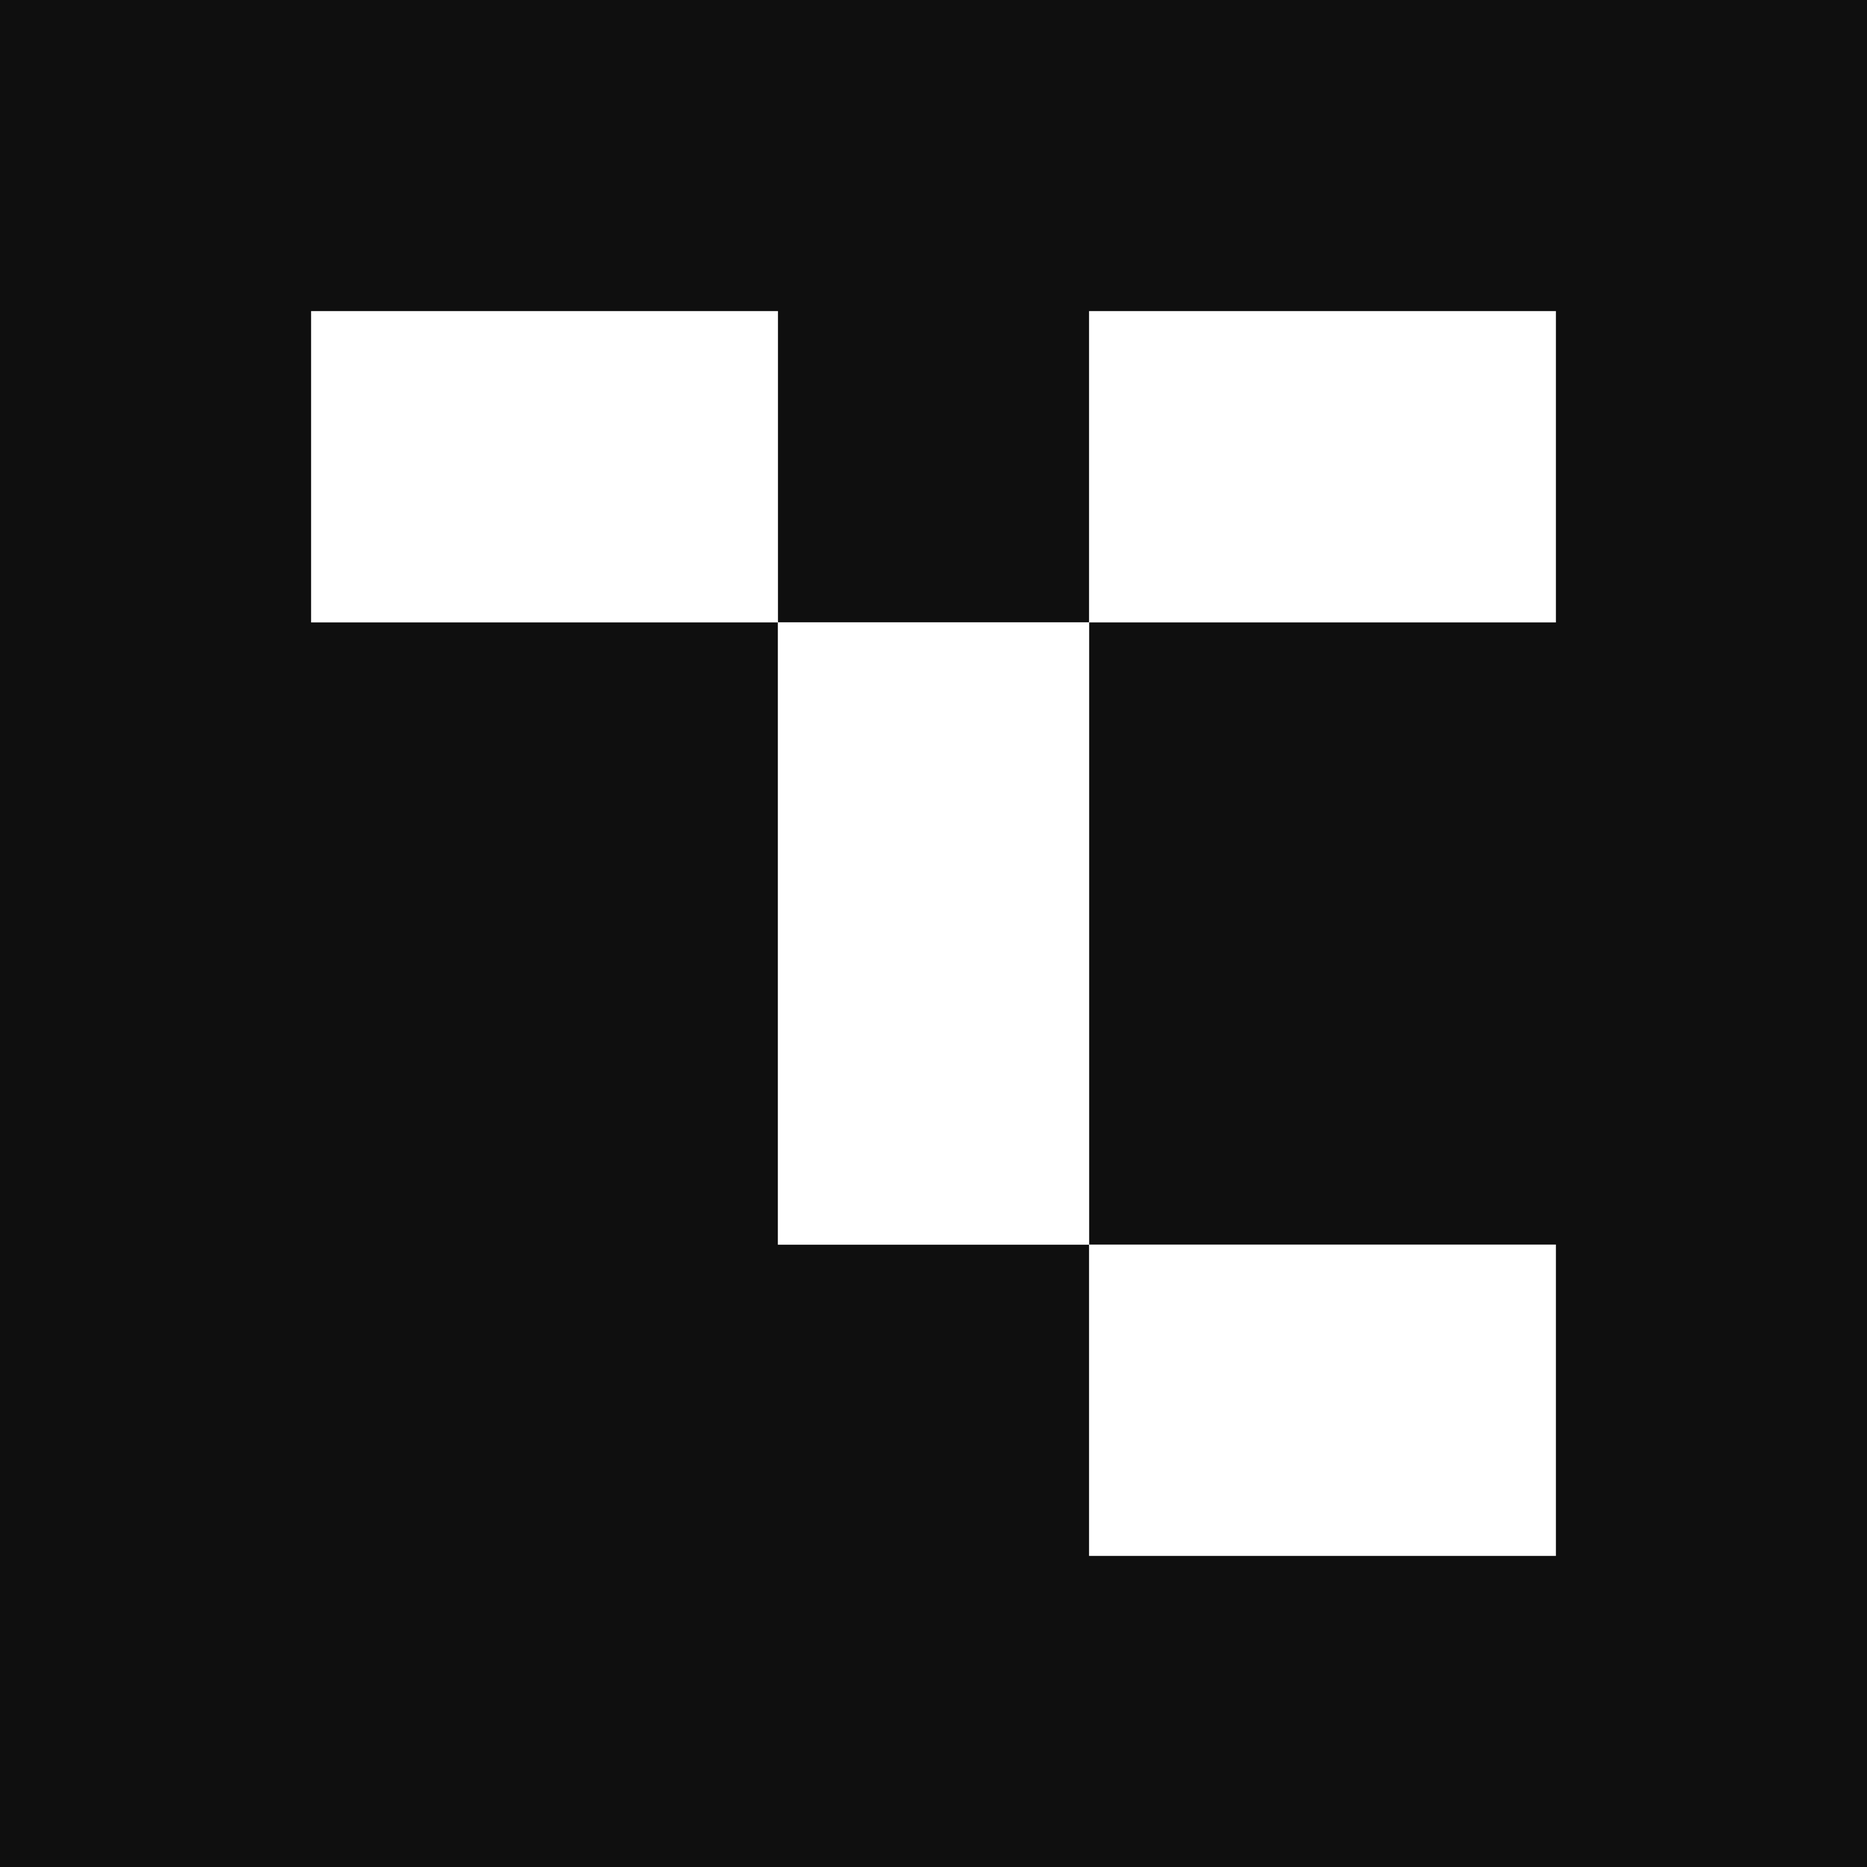
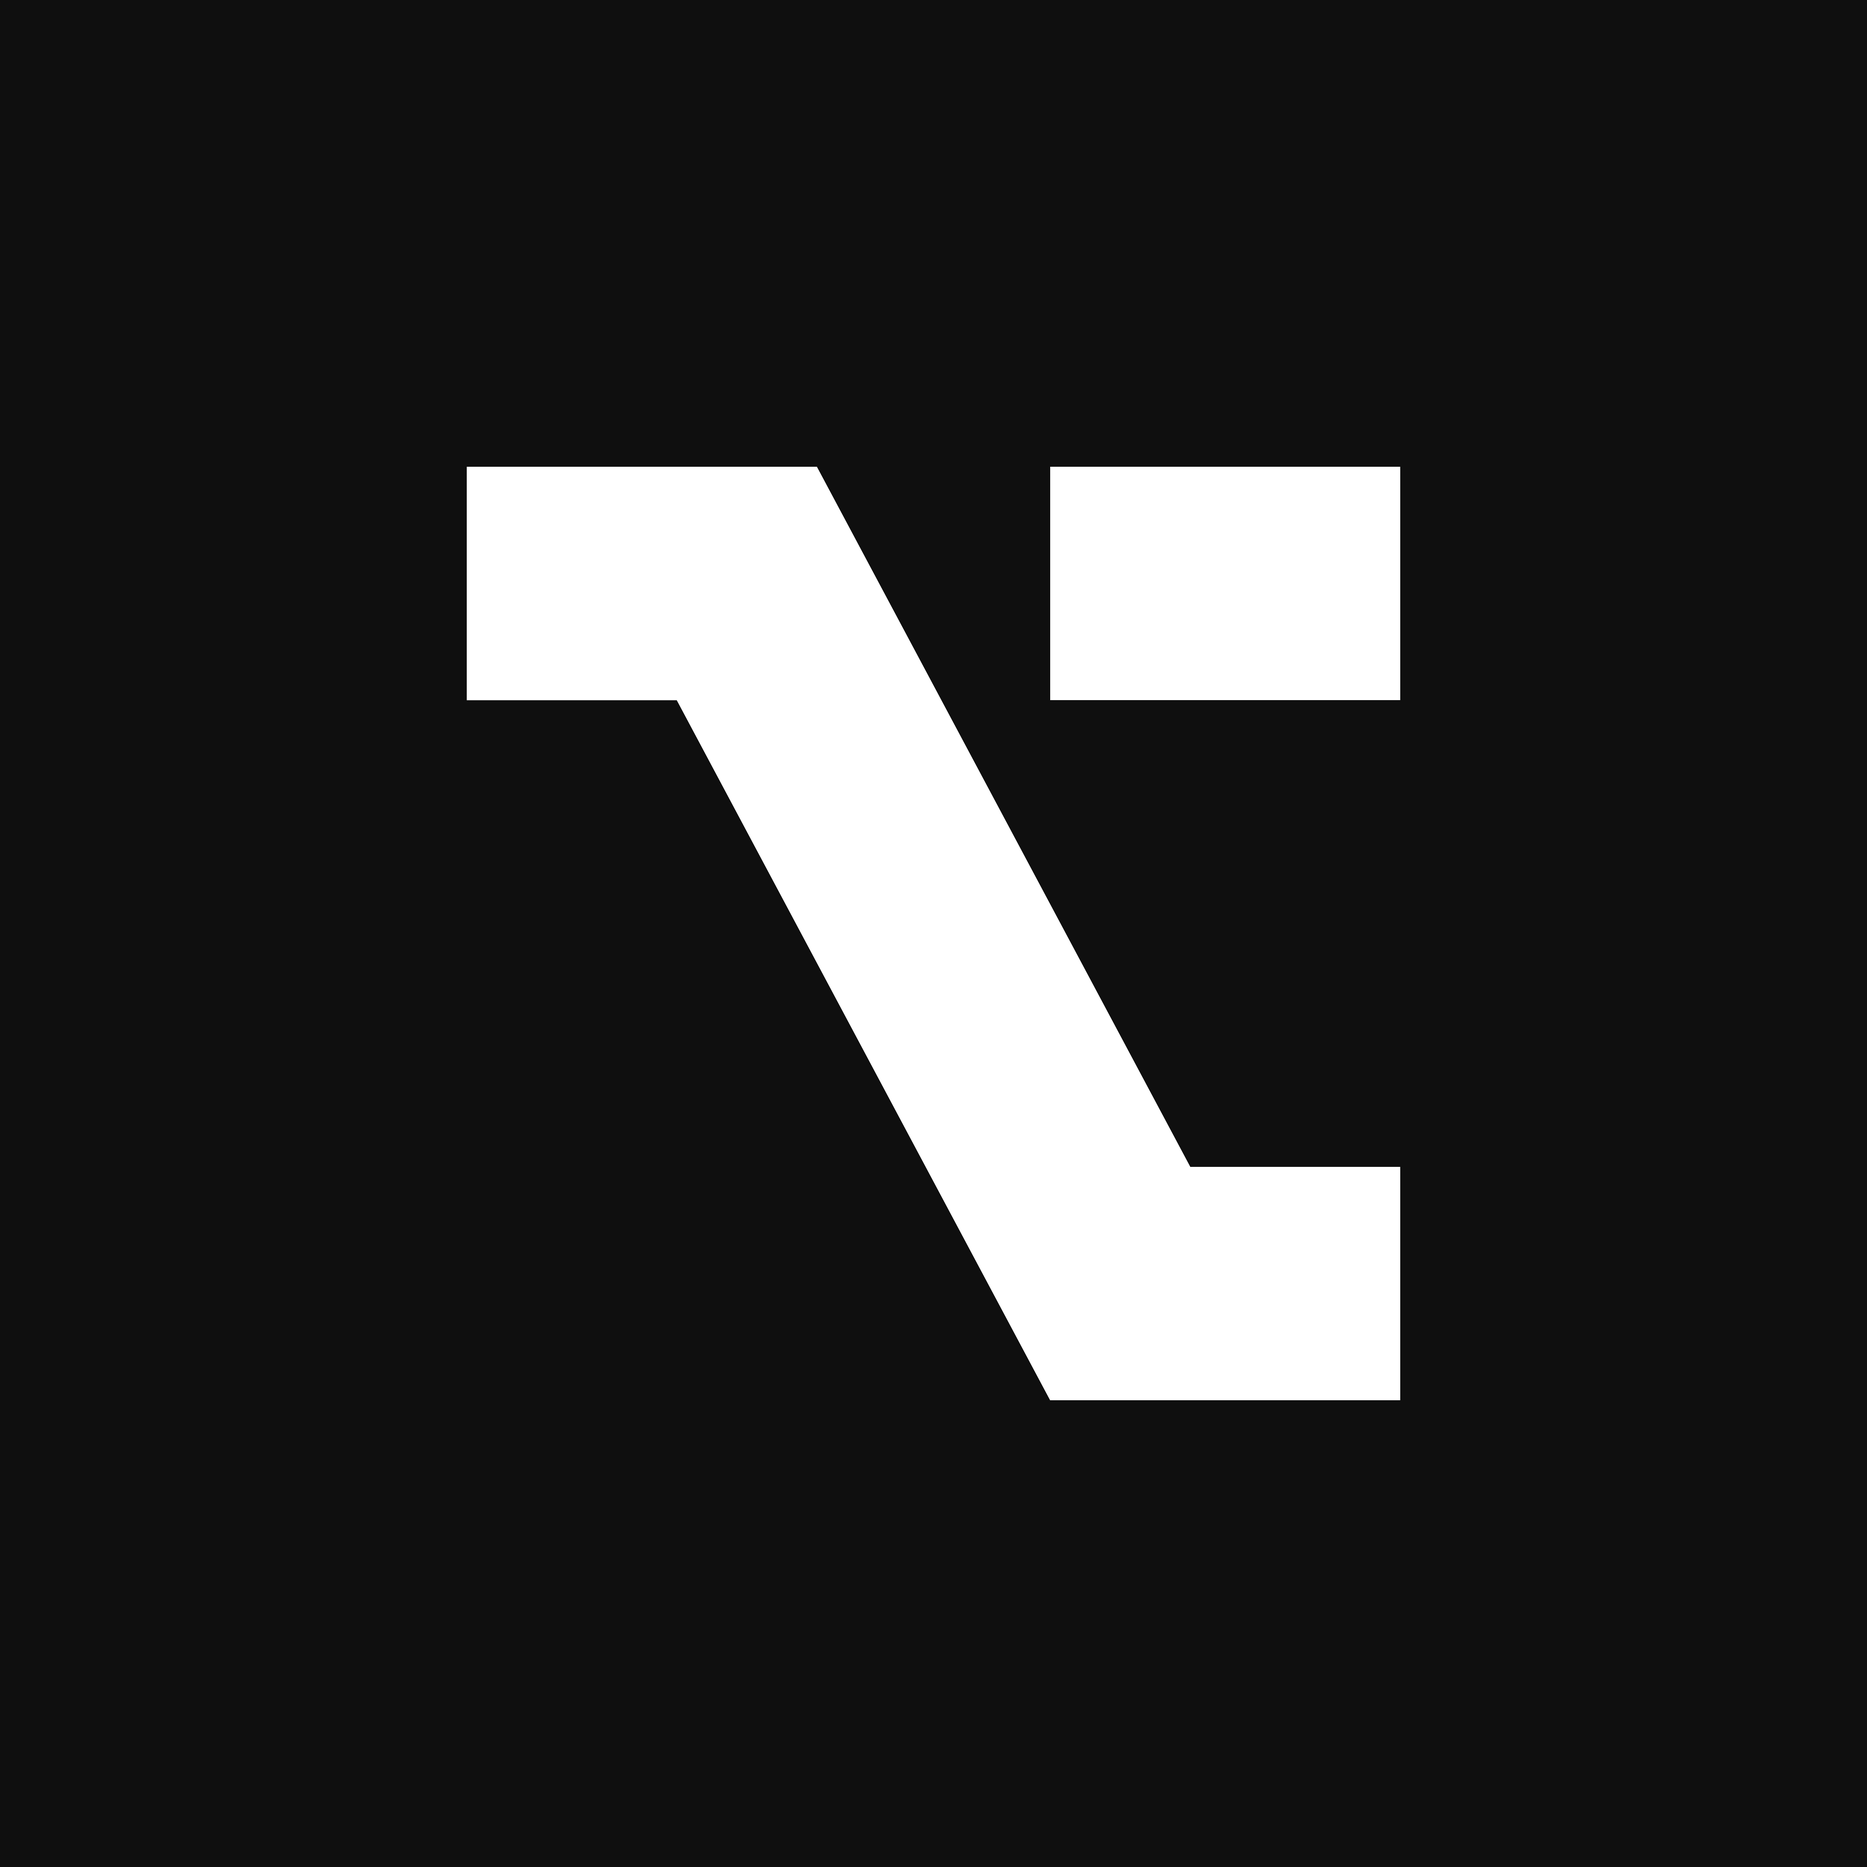
feat: nav menu and branding

Changed region(s): [[0.1562, 0.1562, 0.8438, 0.8438]]

diff --git a/src/app/(subdomains)/(projects)/altered/(site)/_components/header.tsx b/src/app/(subdomains)/(projects)/altered/(site)/_components/header.tsx
@@ -2,32 +2,50 @@
  *
  */
 
-import { AlteredLogo } from "~/components/svgs/brand/altered"
-import { Button } from "~/components/ui/primitives/inputs"
 import Link from "next/link"
-import { InlineCode } from "~/components/ui/primitives/typography"
-const links = [
-    { text: "overview", url: "/#overview" },
+import { forwardRef, type ComponentPropsWithoutRef, type ElementRef } from "react"
+import { AlteredLogo } from "~/components/svgs/brand/altered"
+import {
+    Button,
+    NavigationMenu,
+    NavigationMenuContent,
+    NavigationMenuItem,
+    NavigationMenuLink,
+    NavigationMenuList,
+    NavigationMenuTrigger,
+    navigationMenuTriggerStyle
+} from "~/components/ui/primitives/inputs"
+import { cn } from "~/utils/ui"
+
+const navigationMenuData: NavigationMenuData[] = [
+    { title: "Overview", href: "/#overview" },
     {
-        text: "features",
-        url: "/#features",
+        title: "Concepts",
+        href: "/#concepts",
         children: [
-            { text: "start", url: "/#start" },
-            { text: "ingest", url: "/#ingest" },
-            { text: "datasets", url: "/#datasets" },
-            { text: "focus", url: "/#focus" },
-            { text: "intelligence", url: "/#intelligence" },
-            { text: "systems", url: "/#systems" }
+            { title: "Start", href: "/#start", description: "Begin your journey with Altered" },
+            { title: "Ingest", href: "/#ingest", description: "Learn about data ingestion in Altered" },
+            { title: "Datasets", href: "/#datasets", description: "Understand datasets in Altered" },
+            { title: "Focus", href: "/#focus", description: "Discover the focus feature in Altered" },
+            { title: "Intelligence", href: "/#intelligence", description: "Explore AI capabilities in Altered" },
+            { title: "Systems", href: "/#systems", description: "Learn about Altered's system architecture" }
         ]
     },
-    { text: "use cases", url: "/#use-cases" }
-    // { text: "pricing", url: "/pricing" }
-] satisfies { text: string; url: string; children?: { text: string; url: string }[] }[]
+    { title: "Use Cases", href: "/#use-cases" },
+    { title: "Docs", href: "/docs" }
+]
+
+type NavigationMenuData = {
+    title: string
+    description?: string
+    href?: string
+    children?: NavigationMenuData[]
+}
 
 export function Header(): JSX.Element {
     return (
         <header className="fixed left-0 right-0 top-0 z-10 p-4">
-            <div className="flex w-full flex-row items-center justify-between border-2 bg-background/75 backdrop-blur-md">
+            <div className="flex w-full flex-row items-center justify-between border-2 bg-background/75 before:absolute before:inset-4 before:z-[-1] before:backdrop-blur-md">
                 {/* Logo. */}
                 <div className="flex items-center justify-center gap-3 p-6">
                     <AlteredLogo className="h-6" />
@@ -36,13 +54,14 @@ export function Header(): JSX.Element {
 
                 {/* Menu bar links. */}
 
-                <nav className="flex flex-row items-center justify-center gap-2">
+                {/* <nav className="flex flex-row items-center justify-center gap-2">
                     {links.map(item => (
                         <Button key={item.url} asChild variant="link" className="font-mono">
-                            <Link href={item.url}>{item.text}</Link>
+                        <Link href={item.url}>{item.text}</Link>
                         </Button>
-                    ))}
-                </nav>
+                        ))}
+                        </nav> */}
+                <NavigationMenuDemo />
 
                 {/* Sign in/out button. */}
 
@@ -65,3 +84,57 @@ export function Header(): JSX.Element {
         </header>
     )
 }
+
+export function NavigationMenuDemo() {
+    return (
+        <NavigationMenu>
+            <NavigationMenuList>
+                {navigationMenuData.map(category =>
+                    category.children ? (
+                        <NavigationMenuItem key={category.title}>
+                            <NavigationMenuTrigger className="font-mono">{category.title.toLowerCase()}</NavigationMenuTrigger>
+                            <NavigationMenuContent>
+                                <ul className="grid w-[400px] gap-3 p-4 md:w-[500px] md:grid-cols-2 lg:w-[600px]">
+                                    {category.children?.map(item => (
+                                        <ListItem key={item.title} title={item.title} href={item.href}>
+                                            {item.description}
+                                        </ListItem>
+                                    ))}
+                                </ul>
+                            </NavigationMenuContent>
+                        </NavigationMenuItem>
+                    ) : (
+                        <NavigationMenuItem key={category.title}>
+                            <Link href="/docs" legacyBehavior passHref>
+                                <NavigationMenuLink className={cn(navigationMenuTriggerStyle(), "font-mono")}>
+                                    {category.title.toLowerCase()}
+                                </NavigationMenuLink>
+                            </Link>
+                        </NavigationMenuItem>
+                    )
+                )}
+            </NavigationMenuList>
+        </NavigationMenu>
+    )
+}
+
+const ListItem = forwardRef<ElementRef<"a">, ComponentPropsWithoutRef<"a">>(({ className, title, children, ...props }, ref) => {
+    return (
+        <li>
+            <NavigationMenuLink asChild>
+                <a
+                    ref={ref}
+                    className={cn(
+                        "block select-none space-y-1 rounded-md p-3 leading-none no-underline outline-none transition-colors hover:bg-accent hover:text-accent-foreground focus:bg-accent focus:text-accent-foreground",
+                        className
+                    )}
+                    {...props}
+                >
+                    <div className="text-sm font-medium leading-none">{title}</div>
+                    <p className="line-clamp-2 text-sm leading-snug text-muted-foreground">{children}</p>
+                </a>
+            </NavigationMenuLink>
+        </li>
+    )
+})
+ListItem.displayName = "ListItem"

diff --git a/src/components/svgs/brand/altered/logo.tsx b/src/components/svgs/brand/altered/logo.tsx
@@ -17,7 +17,7 @@ import type { SVGProps } from "react"
 
 export const AlteredLogo = ({ className, ...props }: SVGProps<SVGSVGElement>): JSX.Element => (
     <svg xmlns="http://www.w3.org/2000/svg" viewBox="0 0 4096 764.19" fill="currentColor" className={className} {...props}>
-        <path d="M573.14 191.05v95.52H429.85v-95.52h143.29Zm-238.81 95.52v191.05h95.52V286.57h-95.52Zm-143.28-95.52v95.52h143.29v-95.52H191.05Zm238.81 286.57v95.52h143.29v-95.52H429.86Z" />
+        <path d="M573.14 191.05v95.52H429.85v-95.52h143.29ZM250.05 236l179.81 337.14 84.29-44.95-179.81-337.14L250.05 236Zm-59-44.95v95.52h143.29v-95.52H191.05Zm238.81 286.57v95.52h143.29v-95.52H429.86Z" />
         <path d="M0 0v764.19h764.19V0H0Zm668.67 668.67H95.52V95.52h573.14v573.14ZM1136.62 632.22c-24.02-23.19-38.1-55.49-38.1-93.59 0-67.92 49.69-124.24 138.32-131.69l116.78-9.94v-27.33c0-43.9-25.68-62.95-66.26-62.95s-71.23 20.71-71.23 59.63H1112.6c3.31-91.93 77.85-139.97 178.9-139.97s163.99 50.52 163.99 144.94v207.06h71.23v80.34h-163.99v-65.43h-3.31c-24.02 46.38-62.95 75.37-127.55 75.37-38.1 0-71.23-13.25-95.25-36.44Zm217-139.97v-16.57l-124.24 10.77c-16.57 1.66-23.19 10.77-23.19 27.33v36.44c0 24.85 25.68 38.1 62.12 38.1 53.01 0 85.31-43.07 85.31-96.07Zm229.17 86.14h136.66V175.86h-124.24V95.52h227.76v482.86h144.11v80.34h-384.3v-80.34Zm491.65-261.73H1961.8v-80.34h112.64V95.52h103.53v140.8h145.77v80.34h-145.77v261.72h145.77v80.34h-249.3V316.66ZM2383.7 446.7c0-132.52 71.23-220.31 197.95-220.31s197.95 86.13 197.95 202.09v52.18h-290.71v28.16c0 50.52 38.93 79.51 93.59 79.51s86.13-24.85 91.1-67.91h102.7c-13.25 93.59-83.65 148.25-194.64 148.25-126.72 0-197.95-89.45-197.95-221.97Zm290.71-46.38v-14.91c0-45.55-35.61-78.68-92.76-78.68s-92.76 33.13-92.76 78.68v14.91h185.52Zm166.23 178.07h100.22V236.32h250.95v81.17h-147.43v260.89h139.97v80.34h-343.72v-80.34ZM3248.8 446.7c0-132.52 71.23-220.31 197.95-220.31s197.95 86.13 197.95 202.09v52.18h-290.71v28.16c0 50.52 38.93 79.51 93.59 79.51s86.13-24.85 91.1-67.91h102.7c-13.25 93.59-83.65 148.25-194.64 148.25-126.72 0-197.95-89.45-197.95-221.97Zm290.71-46.38v-14.91c0-45.55-35.61-78.68-92.76-78.68s-92.76 33.13-92.76 78.68v14.91h185.52Zm452.96 258.41v-57.15c-26.51 42.24-66.26 67.09-121.75 67.09-112.64 0-168.13-98.56-168.13-221.14s53.01-221.14 166.48-221.14c55.49 0 96.9 24.85 123.41 67.09V95.52h103.53v563.2h-103.53Zm-95.25-352.01c-53.83 0-86.96 33.96-86.96 81.17v119.27c0 47.21 33.96 81.17 86.96 81.17 66.26 0 95.25-43.07 95.25-109.33v-62.94c0-66.26-28.99-109.33-95.25-109.33Z" />
     </svg>
 )

diff --git a/src/components/ui/primitives/inputs/navigation-menu.tsx b/src/components/ui/primitives/inputs/navigation-menu.tsx
@@ -40,7 +40,7 @@ NavigationMenuList.displayName = NavigationMenuPrimitive.List.displayName
 const NavigationMenuItem = NavigationMenuPrimitive.Item
 
 const navigationMenuTriggerStyle = cva(
-    "group inline-flex h-9 w-max items-center justify-center rounded-md bg-background px-4 py-2 text-sm font-medium transition-colors hover:bg-accent hover:text-accent-foreground focus:bg-accent focus:text-accent-foreground focus:outline-none disabled:pointer-events-none disabled:opacity-50 data-[active]:bg-accent/50 data-[state=open]:bg-accent/50"
+    "group inline-flex h-9 w-max items-center justify-center bg-background px-4 py-2 text-sm font-medium transition-colors hover:bg-accent hover:text-accent-foreground focus:bg-accent focus:text-accent-foreground focus:outline-none disabled:pointer-events-none disabled:opacity-50 data-[active]:bg-accent/50 data-[state=open]:bg-accent/50 rounded-none"
 )
 
 const NavigationMenuTrigger = forwardRef<
@@ -83,7 +83,7 @@ const NavigationMenuViewport = forwardRef<
     <div className={cn("absolute left-0 top-full flex justify-center")}>
         <NavigationMenuPrimitive.Viewport
             className={cn(
-                "origin-top-center relative mt-1.5 h-[var(--radix-navigation-menu-viewport-height)] w-full overflow-hidden rounded-md border bg-popover text-popover-foreground shadow data-[state=open]:animate-in data-[state=closed]:animate-out data-[state=closed]:zoom-out-95 data-[state=open]:zoom-in-90 md:w-[var(--radix-navigation-menu-viewport-width)]",
+                "origin-top-center relative mt-1.5 h-[var(--radix-navigation-menu-viewport-height)] w-full overflow-hidden rounded-none border-2 bg-popover/75 text-popover-foreground shadow backdrop-blur-md data-[state=open]:animate-in data-[state=closed]:animate-out data-[state=closed]:zoom-out-95 data-[state=open]:zoom-in-90 md:w-[var(--radix-navigation-menu-viewport-width)]",
                 className
             )}
             ref={ref}
@@ -106,7 +106,7 @@ const NavigationMenuIndicator = forwardRef<
         )}
         {...props}
     >
-        <div className="relative top-[60%] h-2 w-2 rotate-45 rounded-tl-sm bg-border shadow-md" />
+        <div className="relative top-[60%] h-2 w-2 rotate-45 rounded-none bg-red-500 shadow-md" />
     </NavigationMenuPrimitive.Indicator>
 ))
 

diff --git a/src/styles/globals.css b/src/styles/globals.css
@@ -36,7 +36,7 @@
         --foreground: 0 0% 98%;
         --card: 0 0% 3.9%;
         --card-foreground: 0 0% 98%;
-        --popover: 0 0% 3.9%;
+        --popover: 0 0% 0%;
         --popover-foreground: 0 0% 98%;
         --primary: 0 0% 98%;
         --primary-foreground: 0 0% 9%;
@@ -44,12 +44,12 @@
         --secondary-foreground: 0 0% 98%;
         --muted: 0 0% 14.9%;
         --muted-foreground: 0 0% 63.9%;
-        --accent: 0 0% 14.9%;
+        --accent: 0 0% 100% / 12.5%;
         --accent-foreground: 0 0% 98%;
         --destructive: 0 62.8% 30.6%;
         --destructive-foreground: 0 0% 98%;
         --border: 0 0% 100% / 12.5%;
-        --input: 0 0% 14.9%;
+        --input: 0 0% 100% / 12.5%;
         --ring: 0 0% 83.1%;
         --chart-1: 220 70% 50%;
         --chart-2: 160 60% 45%;

diff --git a/src/app/(site)/page.tsx b/src/app/(site)/page.tsx
@@ -32,7 +32,7 @@ export default async function Landing(): Promise<JSX.Element> {
                                     className="rounded-xl object-cover"
                                 />
                             </div>
-                            <H1>{"My name is Riley."}</H1>
+                            <h1 className="text-5xl font-bold">{"My name is Riley."}</h1>
                             <InlineCode>{"X/IG: @inducingchaos"}</InlineCode>
                             <Muted>{"Check out my projects:"}</Muted>
                             <div className="flex flex-row gap-2">

diff --git a/src/app/(subdomains)/(projects)/altered/(site)/layout.tsx b/src/app/(subdomains)/(projects)/altered/(site)/layout.tsx
@@ -10,7 +10,7 @@ export const metadata: Metadata = {
     // title: `${project.info.name} | ${project.info.tagline}`,
     title: "Altered: Systems for Creative Scale",
     // description: project.info.description,
-    icons: [{ rel: "icon", url: "/entities/live-altered/design/brand/pfp-square-half.png" }],
+    icons: [{ rel: "icon", url: "/entities/live-altered/design/brand/pfp-square.png" }],
     keywords: ""
 }
 
